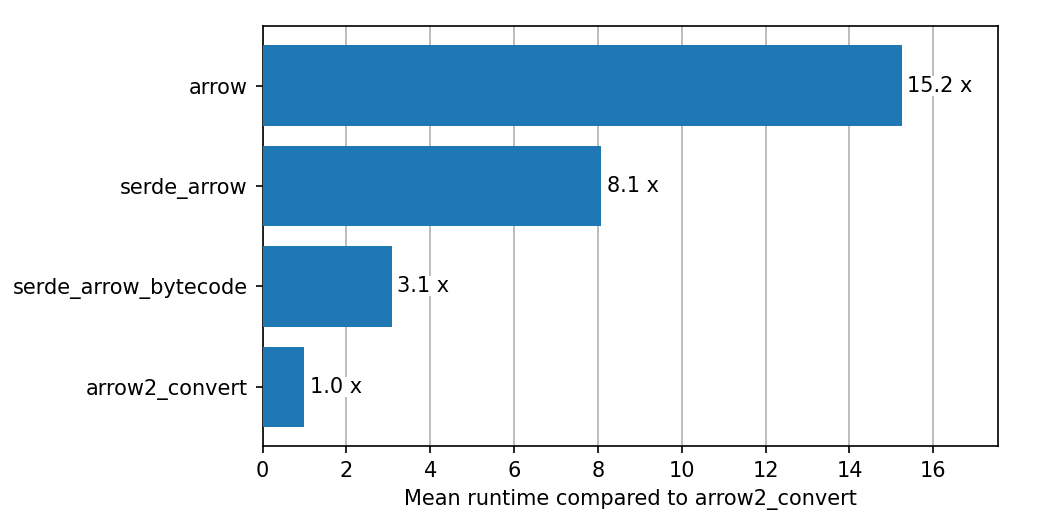
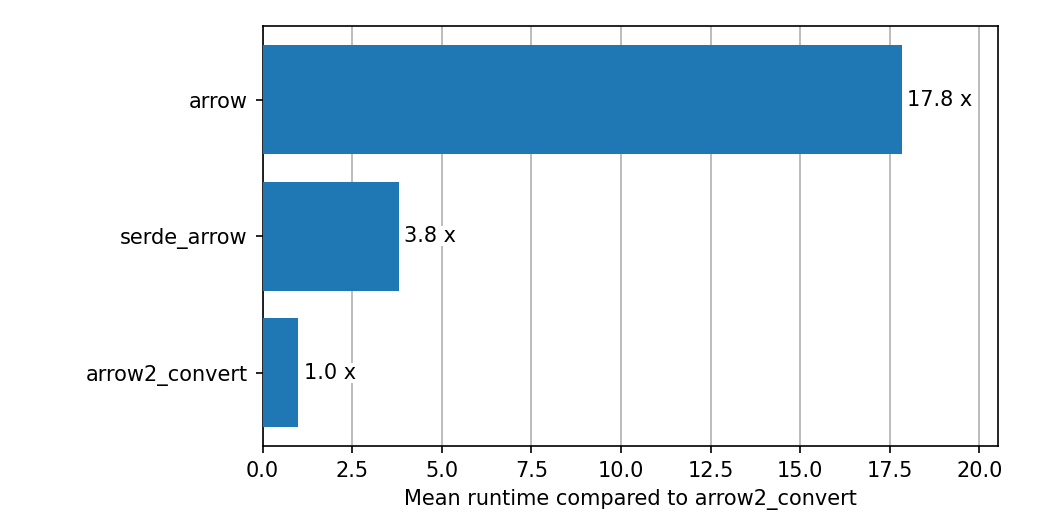
Update benchmarks

diff --git a/Readme.md b/Readme.md
@@ -110,42 +110,37 @@ compared to arrow2-convert:
 The detailed runtimes of the [benchmarks](./serde_arrow/benches/groups/) are listed below.
 
 <!-- start:benchmarks -->
-###  complex_common_serialize(100000)
+### complex_common_serialize(100000)
 
-| label                | time [ms] | arrow2_convert | serde_arrow_byt | serde_arrow | arrow |
-|----------------------|-----------|----------------|-----------------|-------------|-------|
-| arrow2_convert       |     48.16 |           1.00 |            0.33 |        0.08 |  0.06 |
-| serde_arrow_bytecode |    147.66 |           3.07 |            1.00 |        0.25 |  0.18 |
-| serde_arrow          |    592.16 |          12.30 |            4.01 |        1.00 |  0.73 |
-| arrow                |    815.95 |          16.94 |            5.53 |        1.38 |  1.00 |
+| label          | time [ms] | arrow2_convert | serde_arrow | arrow |
+|----------------|-----------|----------------|-------------|-------|
+| arrow2_convert |     65.31 |           1.00 |        0.32 |  0.04 |
+| serde_arrow    |    206.52 |           3.16 |        1.00 |  0.14 |
+| arrow          |   1492.13 |          22.85 |        7.23 |  1.00 |
 
-###  complex_common_serialize(1000000)
+### complex_common_serialize(1000000)
 
-| label                | time [ms] | arrow2_convert | serde_arrow_byt | serde_arrow | arrow |
-|----------------------|-----------|----------------|-----------------|-------------|-------|
-| arrow2_convert       |    464.95 |           1.00 |            0.32 |        0.08 |  0.06 |
-| serde_arrow_bytecode |   1450.16 |           3.12 |            1.00 |        0.25 |  0.18 |
-| serde_arrow          |   5784.91 |          12.44 |            3.99 |        1.00 |  0.71 |
-| arrow                |   8144.66 |          17.52 |            5.62 |        1.41 |  1.00 |
+| label          | time [ms] | arrow2_convert | serde_arrow | arrow |
+|----------------|-----------|----------------|-------------|-------|
+| arrow2_convert |    507.49 |           1.00 |        0.25 |  0.05 |
+| serde_arrow    |   2029.95 |           4.00 |        1.00 |  0.21 |
+| arrow          |   9815.04 |          19.34 |        4.84 |  1.00 |
 
-###  primitives_serialize(100000)
+### primitives_serialize(100000)
 
-| label                | time [ms] | arrow2_convert | serde_arrow_byt | serde_arrow | arrow |
-|----------------------|-----------|----------------|-----------------|-------------|-------|
-| arrow2_convert       |     14.26 |           1.00 |            0.32 |        0.26 |  0.07 |
-| serde_arrow_bytecode |     45.04 |           3.16 |            1.00 |        0.81 |  0.24 |
-| serde_arrow          |     55.86 |           3.92 |            1.24 |        1.00 |  0.29 |
-| arrow                |    191.31 |          13.42 |            4.25 |        3.42 |  1.00 |
+| label          | time [ms] | arrow2_convert | serde_arrow | arrow |
+|----------------|-----------|----------------|-------------|-------|
+| arrow2_convert |     12.62 |           1.00 |        0.24 |  0.06 |
+| serde_arrow    |     52.88 |           4.19 |        1.00 |  0.27 |
+| arrow          |    197.70 |          15.67 |        3.74 |  1.00 |
 
-###  primitives_serialize(1000000)
+### primitives_serialize(1000000)
 
-| label                | time [ms] | arrow2_convert | serde_arrow_byt | serde_arrow | arrow |
-|----------------------|-----------|----------------|-----------------|-------------|-------|
-| arrow2_convert       |    149.41 |           1.00 |            0.33 |        0.27 |  0.08 |
-| serde_arrow_bytecode |    451.34 |           3.02 |            1.00 |        0.82 |  0.23 |
-| serde_arrow          |    549.38 |           3.68 |            1.22 |        1.00 |  0.28 |
-| arrow                |   1957.01 |          13.10 |            4.34 |        3.56 |  1.00 |
-
+| label          | time [ms] | arrow2_convert | serde_arrow | arrow |
+|----------------|-----------|----------------|-------------|-------|
+| arrow2_convert |    148.00 |           1.00 |        0.26 |  0.07 |
+| serde_arrow    |    568.58 |           3.84 |        1.00 |  0.29 |
+| arrow          |   1991.82 |          13.46 |        3.50 |  1.00 |
 
 <!-- end:benchmarks -->
 
